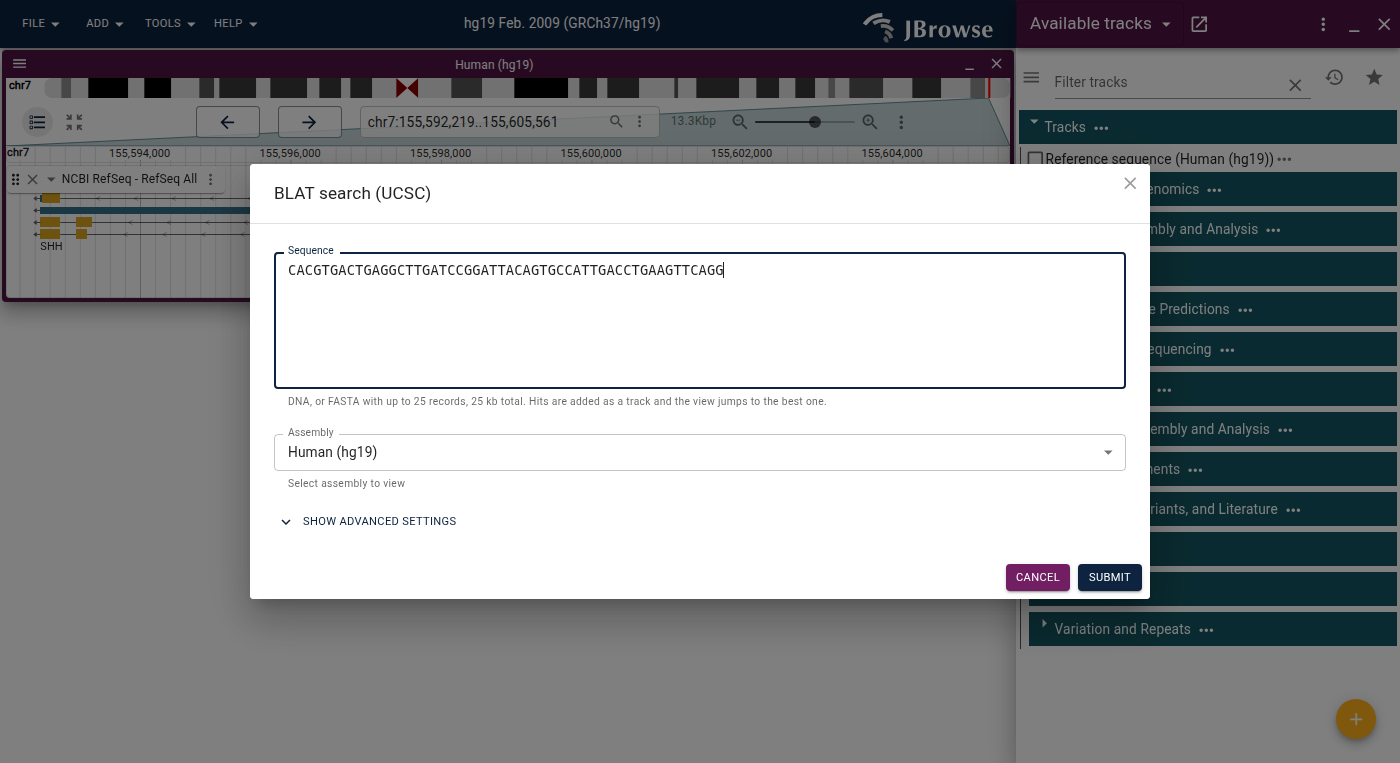
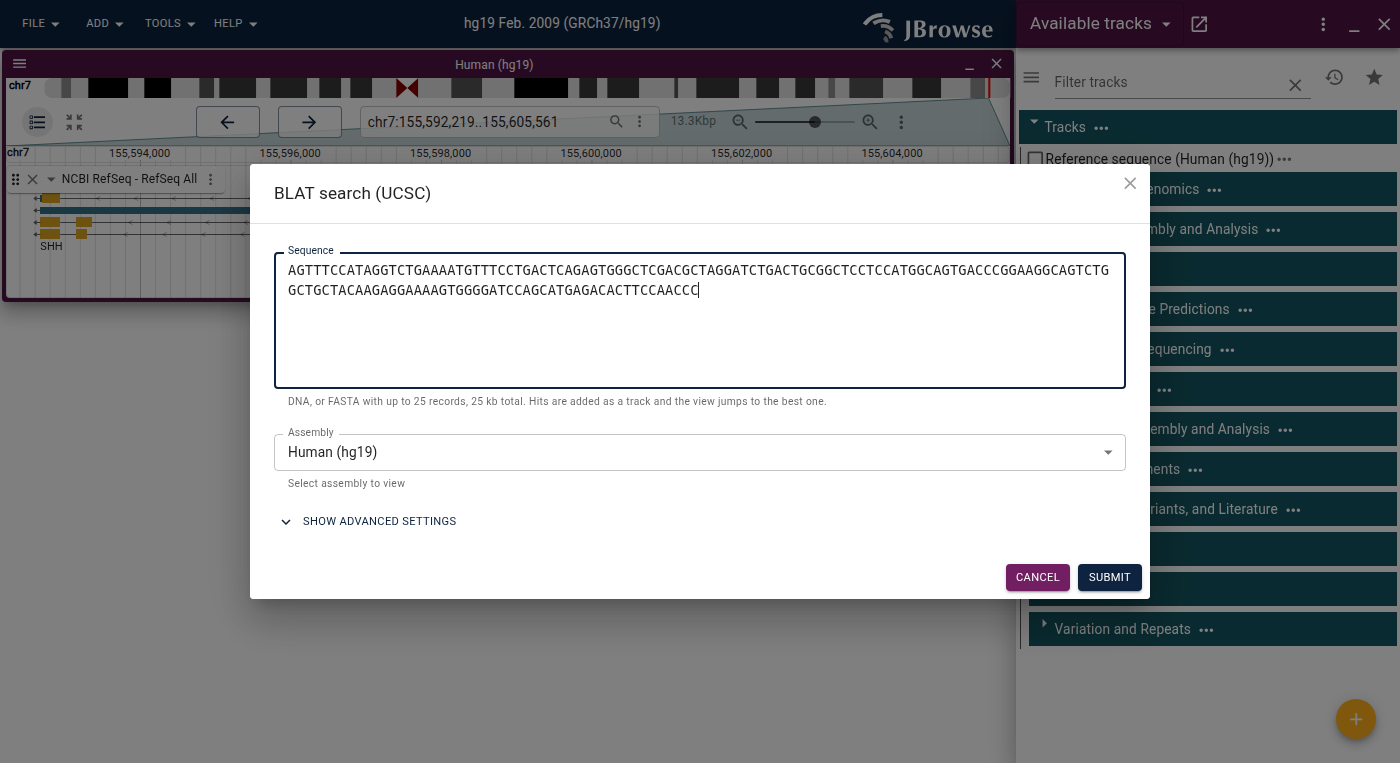
fix(desktop): make the BLAT figure's mock query the sequence its PSL describes
The results track is an AlignmentsTrack now, so the figure draws the submitted
query against the reference base by base. That exposed the mock: SAMPLE_SEQ was
an arbitrary 52bp string while MOCK_BLAT_RESPONSE claimed a 147-base 145/2 hit,
so the read rendered as a wall of mismatches under a hit labelled "98.7%
identity". It is now the real hg19 chr17:7,579,839-7,579,985 with two
substitutions, and the read shows the two mismatch ticks the mock reports.

Capture also waits for the view span to settle. A locstring is a function of
view width, and the results drawer and the taller pileup each reflow it after
navigation, so the frame landed at 202bp or 205bp depending on the race and the
whole ruler shifted. waitForStableSession settles on repeated identical reads;
two runs now agree byte for byte.

The window.JBrowseSession fallback branch is gone with the rebuilt binary
exercising the model assertions, and the BLAT guide described a feature-per-hit
track that no longer exists.

Changed region(s): [[0.215, 0.3316, 0.7986, 0.3919]]

diff --git a/products/jbrowse-desktop/test/screenshots.ts b/products/jbrowse-desktop/test/screenshots.ts
@@ -25,6 +25,7 @@ import {
   startStaticServer,
   waitForAppReady,
   waitForSession,
+  waitForStableSession,
   waitForStartScreen,
 } from './harness.ts'
 
@@ -165,7 +166,16 @@ async function freezeAnimations(driver: WebDriver): Promise<void> {
   `)
 }
 
-const SAMPLE_SEQ = 'CACGTGACTGAGGCTTGATCCGGATTACAGTGCCATTGACCTGAAGTTCAGG'
+// The query the BLAT dialog submits, which MOCK_BLAT_RESPONSE then claims to
+// have placed — so it has to be the sequence that claim describes, not an
+// arbitrary string. It is hg19 chr17:7,579,839-7,579,985 (the mock's own primary
+// hit) with two substitutions, giving the 147 bases and 145/2 match/mismatch
+// split the mock reports. The results track carries this text as its SAM SEQ and
+// the pileup compares it against the real reference base by base, so a query of
+// the wrong length or the wrong bases renders as a wall of mismatches under a
+// hit labelled "98.7% identity".
+const SAMPLE_SEQ =
+  'AGTTTCCATAGGTCTGAAAATGTTTCCTGACTCAGAGTGGGCTCGACGCTAGGATCTGACTGCGGCTCCTCCATGGCAGTGACCCGGAAGGCAGTCTGGCTGCTACAAGAGGAAAAGTGGGGATCCAGCATGAGACACTTCCAACCC'
 
 // Track menu of the first track in the view (hg19's RefSeq lane) -> Gene glyph
 // -> Longest coding transcript. At the 205 bp the BLAT hit frames, "All
@@ -245,7 +255,10 @@ async function submitUcscQuery(driver: WebDriver): Promise<void> {
 // pointing the dialog's "BLAT server URL" field here instead exercises the real
 // request → parse → on-the-fly track → navigate path with only UCSC's server
 // substituted. The body is a genuine hgBlat output=json response shape: a
-// strong 147bp hit over hg19 TP53 and a weaker partial hit on chr6.
+// strong 147bp hit over hg19 TP53 and a weaker partial hit on chr6. Both rows'
+// qSize is SAMPLE_SEQ's length, and their block coordinates have to add up to it
+// — the results track turns these into SAM, where a CIGAR that spans a different
+// number of query bases than SEQ carries is malformed.
 const MOCK_BLAT_RESPONSE = JSON.stringify({
   track: 'blat',
   genome: 'hg19',
@@ -378,42 +391,30 @@ async function captureBlatDialogs(driver: WebDriver): Promise<void> {
       s.trackIds.some(id => id.startsWith('blat-')) &&
       s.widgetTypes.includes('UcscResultsWidget'),
   )
-  if (probe) {
-    console.log(`    DEBUG: session ${JSON.stringify(probe)}`)
-    if (!probe.locStrings.some(loc => loc.includes('chr17'))) {
-      throw new Error(
-        `BLAT left the view at ${probe.locStrings.join('; ')}, wanted chr17`,
-      )
-    }
-    if (!probe.trackIds.some(id => id.startsWith('blat-'))) {
-      throw new Error(`BLAT added no track: ${probe.trackIds.join(', ')}`)
-    }
-    if (!probe.widgetTypes.includes('UcscResultsWidget')) {
-      throw new Error(`BLAT opened no results widget: ${probe.widgetTypes}`)
-    }
-  } else {
-    // The binary is a build artifact, so it can predate the global that the
-    // desktop JBrowse component publishes. Say so rather than failing the run,
-    // and check what the DOM can still answer — the location box, which shows
-    // the debounced locstring and knows nothing about the track or the widget.
-    console.warn(
-      '    WARN: no window.JBrowseSession (binary predates it?) — falling back to the location box',
+  if (!probe) {
+    throw new Error(
+      'no window.JBrowseSession — is the binary built from source?',
     )
-    const searchBox = await driver.findElement(
-      By.css('input[placeholder="Search for location"]'),
+  }
+  console.log(`    DEBUG: session ${JSON.stringify(probe)}`)
+  if (!probe.locStrings.some(loc => loc.includes('chr17'))) {
+    throw new Error(
+      `BLAT left the view at ${probe.locStrings.join('; ')}, wanted chr17`,
     )
-    let locstring: string | null = null
-    const deadline = Date.now() + 30000
-    while (Date.now() < deadline && !locstring?.includes('chr17')) {
-      locstring = await searchBox.getAttribute('value')
-      await delay(300)
-    }
-    if (!locstring?.includes('chr17')) {
-      throw new Error(`BLAT left the view at "${locstring}", wanted chr17`)
-    }
+  }
+  if (!probe.trackIds.some(id => id.startsWith('blat-'))) {
+    throw new Error(`BLAT added no track: ${probe.trackIds.join(', ')}`)
+  }
+  if (!probe.widgetTypes.includes('UcscResultsWidget')) {
+    throw new Error(`BLAT opened no results widget: ${probe.widgetTypes}`)
   }
   await waitForAppReady(driver) // the new track fetches and paints
   await collapseGeneGlyph(driver)
+  // last, because collapsing the glyph is itself a height change: the span has
+  // to be done moving at the moment the frame is taken, not before the edits
+  // that move it
+  const settled = await waitForStableSession(driver)
+  console.log(`    DEBUG: settled at ${settled?.locStrings.join('; ')}`)
   await capture(driver, 'desktop-blat-results.png')
   // the query's own console output (runQuery logs its failures) is otherwise
   // only flushed by the fatal handler, so a run that captured a wrong-looking

diff --git a/products/jbrowse-desktop/test/harness.ts b/products/jbrowse-desktop/test/harness.ts
@@ -242,6 +242,33 @@ export async function waitForSession(
   return last
 }
 
+// Blocks until the view's span stops moving. A locstring is a function of the
+// view's width, so it keeps changing after the content is "there": opening the
+// results drawer narrows the view, and a track growing tall enough to raise a
+// vertical scrollbar narrows it again — each reflow re-spans at the same
+// bpPerPx. Capturing between those two reflows and after them yields figures
+// that differ across the whole ruler, which is what makes an otherwise
+// deterministic figure churn. Settling on repeated identical reads costs one
+// extra interval and removes the race for every caller.
+export async function waitForStableSession(
+  driver: WebDriver,
+  { interval = 500, reads = 3, timeout = 30000 } = {},
+): Promise<SessionProbe | undefined> {
+  const deadline = Date.now() + timeout
+  let recent: string[] = []
+  let last: SessionProbe | undefined
+  while (Date.now() < deadline) {
+    last = await readSession(driver)
+    recent = [...recent, JSON.stringify(last?.locStrings)].slice(-reads)
+    if (recent.length === reads && new Set(recent).size === 1) {
+      return last
+    }
+    await delay(interval)
+  }
+  console.warn(`    WARN: view span still moving: ${recent.join(' -> ')}`)
+  return last
+}
+
 // "Is this gone yet?" asked through the DOM rather than findElements, which
 // waits out the 30s implicit timeout every time the answer is "yes, none left" —
 // the dominant cost of a screenshot run, since every cleanup step ends that way.

diff --git a/website/docs/user_guides/blat.md b/website/docs/user_guides/blat.md
@@ -19,20 +19,26 @@ absent there.
 Choose **Tools → BLAT search…**, paste a DNA sequence or FASTA, pick the
 assembly, and submit.
 
-What comes back is a new track named after the query, holding one feature per
-hit, and a **Search results** panel listing those hits. Hits are ranked by
-UCSC's `pslScore` and the view navigates to the top-scoring one, so a single
-sequence lands you on its coordinates without any further clicks; the panel
-keeps the rest of them in view, each location a link that navigates there.
+What comes back is a new track named after the query, holding the hits, and a
+**Search results** panel listing them. Hits are ranked by UCSC's `pslScore` and
+the view navigates to the top-scoring one, so a single sequence lands you on its
+coordinates without any further clicks. The panel keeps the rest of them in
+view, each location a link that navigates there, labelled with the percent
+identity and the fraction of the query the hit covers.
 
-Each hit feature carries the numbers you need to judge whether it is _the_
-placement or an incidental one. The feature name is the query name plus percent
-identity; clicking the feature opens details with the score, identity, query
-coverage, the aligned span of the query, and the block count. Gapped alignments
-keep their PSL blocks as subfeatures, so introns and indels are drawn rather
-than smoothed over.
+The track is an alignments track. A PSL hit is a list of aligned blocks in query
+and target coordinates, which is what a CIGAR encodes, so each hit is drawn the
+way a read is: blocks as aligned runs, a target gap as a deletion, a query gap
+as an insertion, and the unaligned ends of the query as soft clips. Because the
+sequence you submitted is known, the hit also carries it, and the pileup marks
+every base that disagrees with the reference. That is the difference between a
+hit that is your sequence and one that merely scores well.
 
-<Figure src="/img/desktop-blat-results.png" caption="The result of a BLAT search on hg19: the hits became a track named after the query, the view jumped to the best one, and the Search results panel lists every hit with its identity, query coverage and score. Captured against a stand-in server, since UCSC's is CAPTCHA-gated."/>
+BLAT returns every placement of a query. The best-scoring one is primary and the
+rest are marked secondary, so competing mappings of one sequence stay off the
+best hit's row instead of stacking under it.
+
+<Figure src="/img/desktop-blat-results.png" caption="A BLAT search on hg19, its two hits drawn as alignments against TP53. The best hit is a single ungapped block with two mismatch ticks, matching the 98.7% identity the Search results panel reports for it. Captured against a stand-in server, since UCSC's is CAPTCHA-gated."/>
 
 Pasting FASTA searches each record separately, up to 25 records and 25 kb of
 sequence in total. Records keep their own names, so hits from different queries
@@ -71,9 +77,10 @@ forward and reverse primer and an optional maximum product size. This uses
 UCSC's `hgPcr` service and follows the same database-selection and apiKey/proxy
 options as BLAT search.
 
-Predicted amplicons arrive the same way BLAT hits do, as a track with the view
-navigated to the first product and the same **Search results** panel listing
-every product with its size and primer pair. Each amplicon feature spans the
+Predicted amplicons arrive as a feature track with the view navigated to the
+first product, and the same **Search results** panel listing every product with
+its size and primer pair. There is no query sequence to align here, so this
+stays a feature track rather than a pileup. Each amplicon feature spans the
 whole product and is named by its size, with the forward and reverse primer
 footprints as labelled subfeatures at either end, so you can see which primer
 sits where on both strands.
@@ -91,4 +98,3 @@ track selector.
 
 - [Sequence search](/docs/user_guides/sequence_search)
 - [Sequence track](/docs/user_guides/sequence_track)
-</content>
